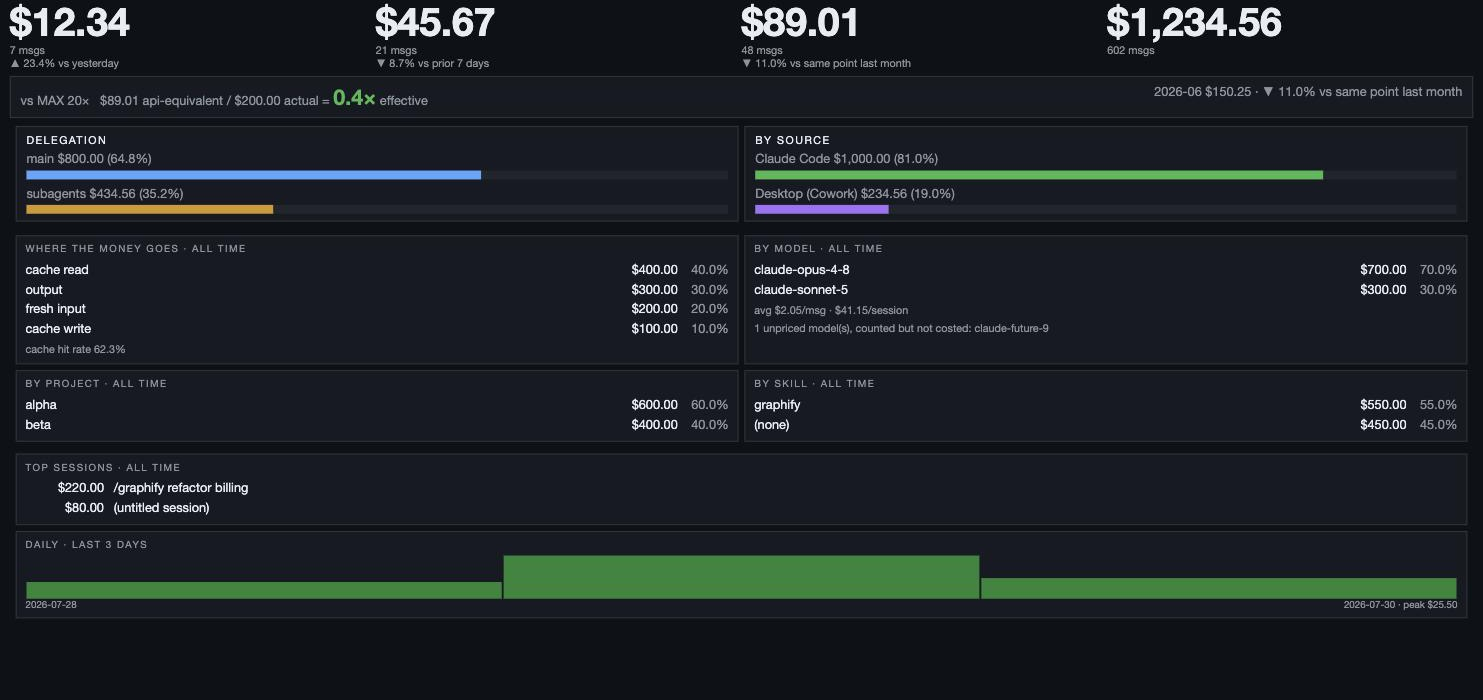
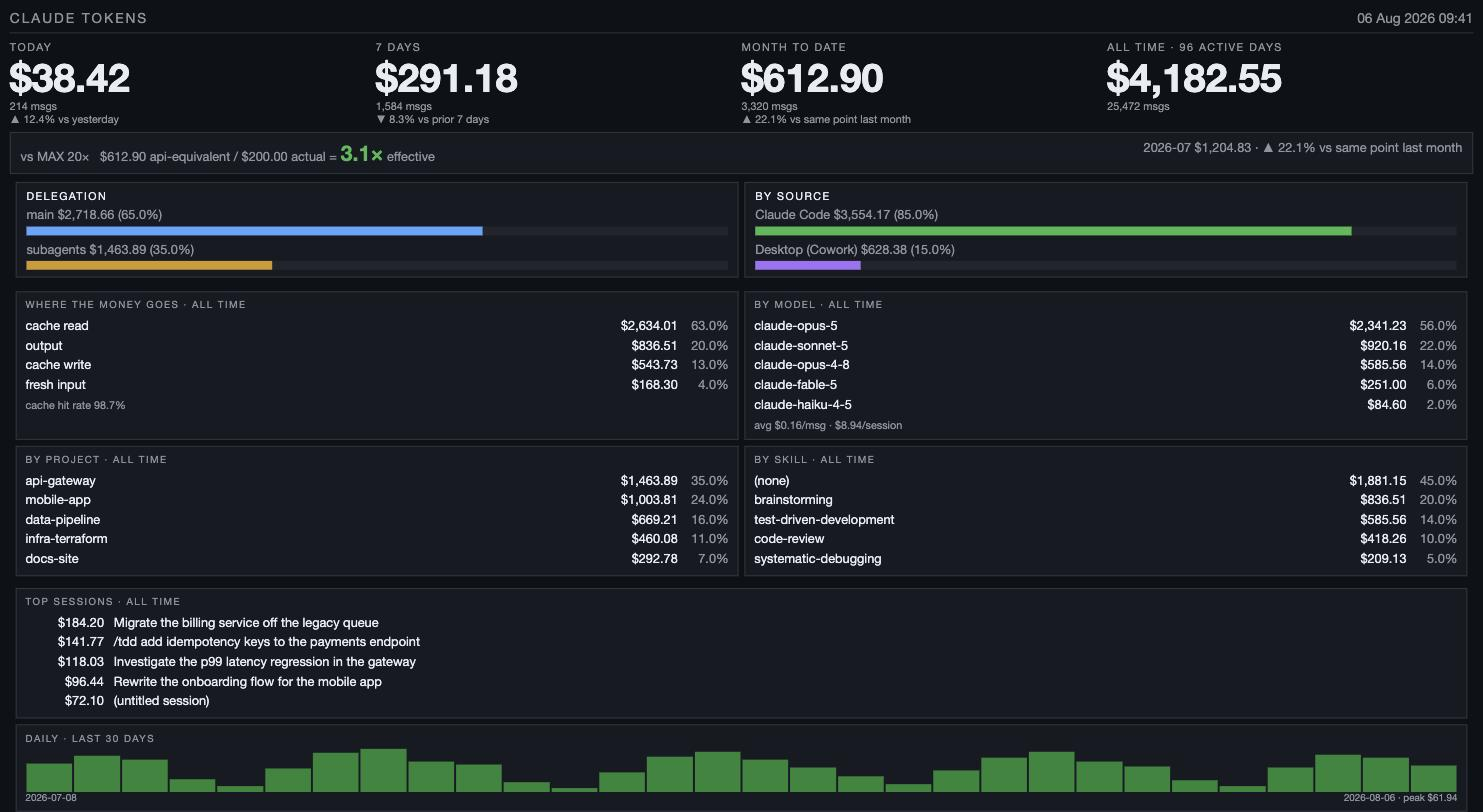
Document the Claude API cost route; make the screenshot representative
Two additions.

**Follow-up guide for real billed cost.** Everything the dashboard shows is
reconstructed from local transcripts and priced at list rates. The Usage &
Cost Admin API is the one source that reports what an organization was
*actually charged*, so the README now documents how to hook it up: which
org types it applies to, creating the Admin key, the two endpoints
(usage_report/messages for tokens, cost_report for dollars), and the
traps — pagination via has_more/next_page, Priority Tier missing from the
cost report, code execution appearing only there and not in usage, costs
returned as decimal strings in cents.

It leads with who it does *not* apply to, because that is most readers: the
Admin API is unavailable for individual accounts, and a personal Max
subscription is not an API account. Claude Enterprise needs a different API
entirely, and Claude Platform on AWS has no programmatic endpoint at all.

Deliberately a guide and not a feature. No credentials of any kind are in
this repository, and the section says why the two figures should not be
summed: one is what subscription usage would have cost at list rates, the
other is what an API organization was billed. Adding them produces a number
that means nothing.

**A representative screenshot.** The previous one rendered the test fixture
— two models, two projects, a three-bar daily chart — which undersold what
a populated dashboard looks like. `tools/demo_page.py` now renders synthetic
[…]

diff --git a/tools/demo_page.py b/tools/demo_page.py
@@ -1,0 +1,125 @@
+"""Render the dashboard from synthetic demo data.
+
+Used to produce the README screenshot, and to preview the layout without
+having any real usage on the machine:
+
+    python3 tools/demo_page.py /tmp/demo.html
+
+Every figure below is invented. The shape is meant to be representative of
+heavy agentic use — cache reads dominating cost, a long tail of models and
+projects, most spend outside any named skill — so the screenshot shows what
+a populated dashboard looks like rather than a near-empty one.
+"""
+
+from __future__ import annotations
+
+import sys
+from pathlib import Path
+
+sys.path.insert(0, str(Path(__file__).resolve().parent.parent))
+
+from dashboard import render_html  # noqa: E402
+from dashboard.models import Bar, DashboardData, DayCost, Window  # noqa: E402
+
+ALL_TIME = 4182.55
+
+# Cost is overwhelmingly cache reads on real agentic workloads: every turn
+# replays the conversation, and replay bills at 0.1x input.
+MONEY = [
+    ("cache read", 2634.01),
+    ("output", 836.51),
+    ("cache write", 543.73),
+    ("fresh input", 168.30),
+]
+BY_MODEL = [
+    ("claude-opus-5", 2341.23),
+    ("claude-sonnet-5", 920.16),
+    ("claude-opus-4-8", 585.56),
+    ("claude-fable-5", 251.00),
+    ("claude-haiku-4-5", 84.60),
+]
+BY_PROJECT = [
+    ("api-gateway", 1463.89),
+    ("mobile-app", 1003.81),
+    ("data-pipeline", 669.21),
+    ("infra-terraform", 460.08),
+    ("docs-site", 292.78),
+]
+BY_SKILL = [
+    ("(none)", 1881.15),
+    ("brainstorming", 836.51),
+    ("test-driven-development", 585.56),
+    ("code-review", 418.26),
+    ("systematic-debugging", 209.13),
+]
+BY_SOURCE = [
+    ("Claude Code", 3554.17),
+    ("Desktop (Cowork)", 628.38),
+]
+TOP_SESSIONS = [
+    ("Migrate the billing service off the legacy queue", 184.20),
+    ("/tdd add idempotency keys to the payments endpoint", 141.77),
+    ("Investigate the p99 latency regression in the gateway", 118.03),
+    ("Rewrite the onboarding flow for the mobile app", 96.44),
+    ("(untitled session)", 72.10),
+]
+
+# 30 days, weekends visibly lower — a flat series looks synthetic.
+DAILY = [
+    ("2026-07-08", 41.20), ("2026-07-09", 52.75), ("2026-07-10", 47.13),
+    ("2026-07-11", 18.44), ("2026-07-12", 9.02),  ("2026-07-13", 33.87),
+    ("2026-07-14", 55.61), ("2026-07-15", 61.94), ("2026-07-16", 44.28),
+    ("2026-07-17", 39.75), ("2026-07-18", 14.60), ("2026-07-19", 6.31),
+    ("2026-07-20", 28.49), ("2026-07-21", 50.02), ("2026-07-22", 58.36),
+    ("2026-07-23", 46.71), ("2026-07-24", 35.18), ("2026-07-25", 21.93),
+    ("2026-07-26", 11.07), ("2026-07-27", 30.66), ("2026-07-28", 48.85),
+    ("2026-07-29", 57.40), ("2026-07-30", 43.12), ("2026-07-31", 37.29),
+    ("2026-08-01", 16.85), ("2026-08-02", 8.44),  ("2026-08-03", 34.51),
+    ("2026-08-04", 53.08), ("2026-08-05", 49.66), ("2026-08-06", 38.42),
+]
+
+
+def _bars(rows: list[tuple[str, float]]) -> list[Bar]:
+    return [Bar(label=name, cost=cost, share=cost / ALL_TIME) for name, cost in rows]
+
+
+def demo_data() -> DashboardData:
+    return DashboardData(
+        generated_at="06 Aug 2026 09:41",
+        today=Window(label="today", cost=38.42, messages=214),
+        last_7_days=Window(label="7 days", cost=291.18, messages=1_584),
+        month_to_date=Window(label="month to date", cost=612.90, messages=3_320),
+        all_time=Window(label="all time", cost=ALL_TIME, messages=25_472),
+        active_days=96,
+        max_plan_monthly_usd=200.0,
+        prev_month_label="2026-07",
+        prev_month_cost=1_204.83,
+        yesterday_cost=34.18,
+        prior_7_days_cost=317.50,
+        prev_month_to_date_cost=502.00,
+        money=_bars(MONEY),
+        by_model=_bars(BY_MODEL),
+        by_project=_bars(BY_PROJECT),
+        by_skill=_bars(BY_SKILL),
+        by_source=_bars(BY_SOURCE),
+        top_sessions=[
+            Bar(label=title, cost=cost, share=cost / ALL_TIME)
+            for title, cost in TOP_SESSIONS
+        ],
+        daily=[DayCost(day=day, cost=cost) for day, cost in DAILY],
+        cache_hit_rate=0.9871,
+        avg_cost_per_message=0.1642,
+        avg_cost_per_session=8.94,
+        main_cost=2_718.66,
+        subagent_cost=1_463.89,
+    )
+
+
+def main() -> None:
+    out = Path(sys.argv[1] if len(sys.argv) > 1 else "demo.html")
+    out.write_text(render_html.render(demo_data()), encoding="utf-8")
+    print(out)
+
+
+if __name__ == "__main__":
+    main()

diff --git a/README.md b/README.md
@@ -14,9 +14,11 @@ Everything stays on your machine: no account, no telemetry, no network calls.
 
 **No dependencies outside the Python standard library.**
 
-![The dashboard, rendered from the project's test fixture](docs/screenshot.jpg)
+![The dashboard showing token spend broken down by model, project, skill and source](docs/screenshot.jpg)
 
-*Figures above are the synthetic test fixture, not real usage.*
+*Every figure above is synthetic demo data, not real usage. Reproduce it with
+`python3 tools/demo_page.py demo.html` and open the file — a way to see the
+layout before you have any history of your own.*
 
 ## Requirements
 
@@ -132,6 +134,101 @@ The lowest-effort option: run it on the machine you already work on and leave
 screen on a second monitor. Everything above about networks and IP addresses
 stops mattering, because there is only one machine.
 
+## Follow-up: real billed cost from the Claude API
+
+Everything this dashboard shows is **reconstructed** from local transcripts and
+priced at list rates. If you also call the Claude API directly, Anthropic will
+tell you what you were *actually billed* — and that is the one number this tool
+can't derive.
+
+This section is a guide, not a feature: **nothing here is wired into the
+dashboard**, and no credentials belong in this repository. Follow it if you
+want the real figures alongside the estimate.
+
+### First, check whether it applies to you
+
+| You are | What you get |
+|---|---|
+| On a **Console (Claude Platform) organization** | The Usage & Cost Admin API below |
+| On **Claude Enterprise** (claude.ai) | A different API — the [Enterprise Analytics API](https://platform.claude.com/docs/en/api/admin/analytics), with an Analytics key |
+| An **individual account** | Nothing — see below |
+| Using **Claude Platform on AWS** | Not available programmatically; use the Console's Usage and Cost pages |
+
+> **The Admin API is unavailable for individual accounts.** If you use Claude
+> Code on a personal Pro or Max subscription and have never set up a Console
+> organization, there is no key to create and this section does not apply. A
+> Max subscription is not an API account — the two are billed separately.
+
+### 1. Create an Admin API key
+
+In the Claude Console, under organization settings — see
+[Create an Admin API key](https://platform.claude.com/docs/en/manage-claude/admin-api-keys).
+It is **not** the same as a normal API key and looks like `sk-ant-admin01-…`.
+
+Treat it as a high-privilege credential: it reads organization-wide billing.
+Keep it in your shell environment or a secrets manager, never in a file in a
+repository:
+
+```bash
+export ANTHROPIC_ADMIN_KEY='sk-ant-admin01-...'   # not committed anywhere
+```
+
+### 2. Tokens — the usage report
+
+```bash
+curl -s "https://api.anthropic.com/v1/organizations/usage_report/messages?\
+starting_at=2026-08-01T00:00:00Z&\
+ending_at=2026-08-08T00:00:00Z&\
+bucket_width=1d&\
+group_by[]=model" \
+  -H "anthropic-version: 2023-06-01" \
+  -H "x-api-key: $ANTHROPIC_ADMIN_KEY"
+```
+
+Buckets are `1m`, `1h`, or `1d`, capped at 1440 / 168 / 31 buckets per request
+respectively. You can group and filter by model, workspace, API key, service
+tier, and context window. Token classes come back split the same way this
+dashboard splits them — uncached input, cached input, cache creation, output —
+so the two are directly comparable.
+
+### 3. Dollars — the cost report
+
+```bash
+curl -s "https://api.anthropic.com/v1/organizations/cost_report?\
+starting_at=2026-08-01T00:00:00Z&\
+ending_at=2026-08-31T00:00:00Z&\
+group_by[]=description" \
+  -H "anthropic-version: 2023-06-01" \
+  -H "x-api-key: $ANTHROPIC_ADMIN_KEY"
+```
+
+Daily granularity only. **Costs are returned as decimal strings in the
+currency's lowest unit (cents)** — divide before comparing them to anything on
+this page, and don't parse them as floats if you care about exactness.
+
+### 4. Things that will bite you
+
+- **Both endpoints paginate.** Check `has_more` and pass `next_page` back as
+  `page` until it is false, or you will silently read only the first slice.
+- **Priority Tier spend is missing from the cost report** — track it through
+  the usage report's `service_tier` instead.
+- **Code execution is the mirror image**: it appears only in the *cost* report,
+  under a `Code Execution Usage` description, and not in the usage report.
+- **Data lags a few minutes**, and poll no more than about once a minute.
+- Console Workbench usage has a `null` api_key_id; the default workspace has a
+  `null` workspace_id. Neither is an error.
+
+### 5. Why this isn't merged into the dashboard
+
+The two sources are not the same measurement, and adding them together would
+produce a number that means nothing. This tool reconstructs what *subscription*
+usage would have cost at list rates; the Admin API reports what an *API
+organization* was actually charged. If you wire this up, keep it as its own
+panel with its own heading — as the "By source" split already does for the
+surfaces that are covered.
+
+Reference: [Usage and Cost API](https://platform.claude.com/docs/en/api/usage-cost-api).
+
 ## What the numbers mean
 
 - **api-equivalent cost** — what the usage would have cost at Claude API list
@@ -164,7 +261,7 @@ models are released and repriced; editing that table is the whole update.
 |---|---|---|
 | Claude Code | yes | writes transcripts with per-message `usage` |
 | Claude Desktop — Cowork | yes | same transcript format, different root |
-| Claude API / Console | no | billed server-side; needs the Admin API and a key |
+| Claude API / Console | no | billed server-side — see [Follow-up: real billed cost](#follow-up-real-billed-cost-from-the-claude-api) |
 | Claude Desktop — chat | no | no token counts stored locally |
 | Claude in Chrome | no | proxies claude.ai, same as chat |
 
